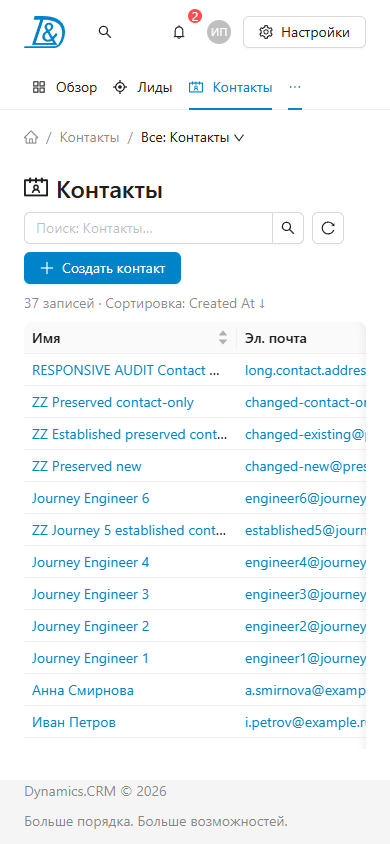
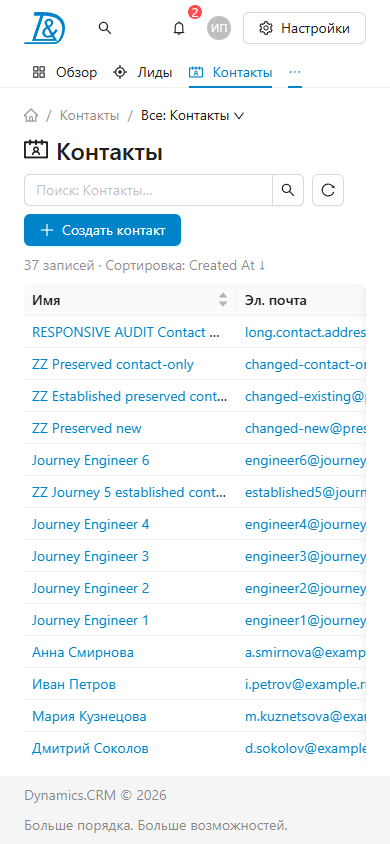
56px header, 32px menu lines, zero card body padding, centered modal, glyph-fitted Italic Regular CRM

diff --git a/antd-contacts/src/useGlyphFit.ts b/antd-contacts/src/useGlyphFit.ts
@@ -1,0 +1,50 @@
+import { useMemo } from 'react';
+import type { CSSProperties } from 'react';
+
+interface FontSpec {
+  family: string;
+  style?: 'normal' | 'italic';
+  weight?: number | string;
+}
+
+/**
+ * Sizes upper-case text so that its *visible capital letters* (not the line box) are exactly `heightPx`
+ * tall: the cap height (flat tops of H, R, M…) aligns with the top of a `heightPx`-high block and the
+ * baseline with its bottom. Round letters (C, O, S) overshoot by a fraction of a pixel, as in any typeface.
+ *
+ * Measures the real font with canvas `measureText`, so it adapts to whatever font the OS resolves
+ * (Segoe UI, SF Pro, Roboto…). Returns styles for a block-level element.
+ */
+export function useGlyphFit(heightPx: number, font: FontSpec): CSSProperties {
+  const { family, style = 'normal', weight = 400 } = font;
+
+  return useMemo(() => {
+    const fallback: CSSProperties = { fontSize: heightPx, lineHeight: `${heightPx}px` };
+    const ctx = typeof document !== 'undefined' ? document.createElement('canvas').getContext('2d') : null;
+    if (!ctx) return fallback;
+
+    const base = 100;
+    ctx.font = `${style} ${weight} ${base}px ${family}`;
+    const m = ctx.measureText('H'); // flat glyph: top = cap height, bottom = baseline
+    const capHeight = m.actualBoundingBoxAscent;
+    if (!capHeight || !m.fontBoundingBoxAscent) return fallback;
+
+    const k = heightPx / capHeight;
+    // Font metrics used for the line box; browsers round them to whole pixels during line layout.
+    const fontAscent = Math.round(m.fontBoundingBoxAscent * k);
+    const fontDescent = Math.round(m.fontBoundingBoxDescent * k);
+
+    // In a line box of height L the baseline sits at (L − fontAscent − fontDescent)/2 + fontAscent.
+    // Put the baseline at heightPx (bottom of the block) so cap tops land at 0 (top of the block).
+    const lineHeight = 2 * heightPx - fontAscent + fontDescent;
+
+    return {
+      display: 'block',
+      height: heightPx,
+      fontSize: base * k,
+      lineHeight: `${lineHeight}px`,
+      fontStyle: style,
+      fontWeight: weight,
+    };
+  }, [heightPx, family, style, weight]);
+}

diff --git a/antd-contacts/src/App.tsx b/antd-contacts/src/App.tsx
@@ -34,10 +34,12 @@ import {
 } from '@ant-design/icons';
 import logo from './assets/logo.svg';
 import ContactsPage from './pages/ContactsPage';
+import { useGlyphFit } from './useGlyphFit';
 
 const { Header, Content, Footer } = Layout;
 const { Text } = Typography;
 
+const LOGO_HEIGHT = 32;
 const CURRENT_USER = 'Иван Петров';
 const CURRENT_USER_INITIALS = 'ИП';
 
@@ -62,6 +64,7 @@ export default function App() {
   const { token } = theme.useToken();
   const screens = Grid.useBreakpoint();
   const { message } = AntApp.useApp();
+  const productNameFit = useGlyphFit(LOGO_HEIGHT, { family: token.fontFamily, style: 'italic', weight: 400 });
 
   const notInDemo = (what: string) => message.info(`«${what}» не входит в демо-страницу`);
 
@@ -81,17 +84,13 @@ export default function App() {
           <Image
             src={logo}
             alt="Dynamics Scientific"
-            height={32}
+            height={LOGO_HEIGHT}
             preview={false}
             styles={{ root: { display: 'block' }, image: { display: 'block' } }}
           />
           {screens.md && (
-            // Product name: italic, primary colour, same 32px height as the logo.
-            <Text
-              strong
-              italic
-              style={{ color: token.colorPrimary, fontSize: 32, lineHeight: '32px', display: 'block' }}
-            >
+            // Italic Regular; letters (ink) exactly as tall as the logo and aligned to its top and bottom.
+            <Text italic style={{ ...productNameFit, color: token.colorPrimary }}>
               CRM
             </Text>
           )}

diff --git a/antd-contacts/src/pages/ContactsPage.tsx b/antd-contacts/src/pages/ContactsPage.tsx
@@ -179,11 +179,11 @@ export default function ContactsPage() {
         ]}
       />
 
-      {/* Card and its body stretch to the full remaining height; no border, no horizontal body padding. */}
+      {/* Card and its body stretch to the full remaining height; no border or shadow (body padding is a token). */}
       <Card
         variant="borderless"
         style={{ flex: 1, minHeight: 0, display: 'flex', flexDirection: 'column', boxShadow: 'none' }}
-        styles={{ body: { flex: 1, minHeight: 0, display: 'flex', flexDirection: 'column', paddingInline: 0 } }}
+        styles={{ body: { flex: 1, minHeight: 0, display: 'flex', flexDirection: 'column' } }}
       >
         <Flex vertical gap="medium" style={{ flex: 1, minHeight: 0 }}>
           <Flex justify="space-between" align="center" wrap gap="medium">
@@ -251,6 +251,7 @@ export default function ContactsPage() {
 
       <Modal
         title="Новый контакт"
+        centered
         open={creating}
         okText="Создать"
         okButtonProps={{ htmlType: 'submit' }}

diff --git a/antd-contacts/src/theme.ts b/antd-contacts/src/theme.ts
@@ -12,14 +12,16 @@ export const appTheme: ThemeConfig = {
   },
   components: {
     Card: {
-      bodyPadding: 16, // --ant-card-body-padding
+      bodyPadding: 0, // --ant-card-body-padding
     },
     Layout: {
       bodyBg: '#ffffff', // --ant-layout-body-bg
-      footerPadding: '0px 24px 12px', // --ant-layout-footer-padding
+      headerHeight: 56, // --ant-layout-header-height
+      footerPadding: '8px 24px 8px', // --ant-layout-footer-padding
     },
     Menu: {
       itemPaddingInline: 8, // --ant-menu-item-padding-inline
+      horizontalLineHeight: '32px', // --ant-menu-horizontal-line-height
     },
     Table: {
       // 4.5px + 22px line height + 4.5px + 1px row border = 32px row height

diff --git a/CLAUDE.md b/CLAUDE.md
@@ -16,15 +16,18 @@ Current trial: **Ant Design**. The page is the Dynamics.CRM "Контакты" l
   custom CSS look.
 - All visual customisation goes **only through antd design tokens** in `antd-contacts/src/theme.ts`
   (`ConfigProvider theme={appTheme}`). Don't put colours or spacing overrides in components. Current theme:
-  `colorPrimary`/`colorLink` `#0084C9`, `padding` 8 (`--ant-padding`), Card `bodyPadding` 16, Layout
-  `bodyBg` `#ffffff` and `footerPadding` `0px 24px 12px`, Menu `itemPaddingInline` 8, Table `cellPaddingBlock`
-  4.5px (32px rows). Exceptions with no token, set inline: Content padding `16px 24px` (`App.tsx`), and on the
-  Contacts Card `boxShadow: 'none'` and body `paddingInline: 0` (`ContactsPage.tsx`).
-- Contacts Card: `variant="borderless"`, no shadow, no horizontal body padding (the table is flush with the
-  content edges).
-- Header: logo `src/assets/logo.svg` (the "D&" mark, 41×32, copied from the root `logo.svg`) and the product name
-  "CRM" (italic, `token.colorPrimary`, 32px font/line height, hidden below `md`). They're direct children of one
-  `Flex align="center" gap={8}`, with no Space wrappers and no Divider.
+  `colorPrimary`/`colorLink` `#0084C9`, `padding` 8 (`--ant-padding`), Card `bodyPadding` 0, Layout
+  `bodyBg` `#ffffff`, `headerHeight` 56 and `footerPadding` `8px 24px 8px`, Menu `itemPaddingInline` 8 and
+  `horizontalLineHeight` `32px`, Table `cellPaddingBlock` 4.5px (32px rows). Exceptions with no token, set
+  inline: Content padding `16px 24px` (`App.tsx`) and Contacts Card `boxShadow: 'none'` (`ContactsPage.tsx`).
+- Contacts Card: `variant="borderless"`, no shadow, body padding 0 (the table is flush with the content edges).
+- The create-contact Modal is `centered` (vertically and horizontally).
+- Header (56px): logo `src/assets/logo.svg` (the "D&" mark, 41×32, copied from the root `logo.svg`) and the
+  product name "CRM" (Italic Regular, `token.colorPrimary`, hidden below `md`). They're direct children of one
+  `Flex align="center" gap={8}`, with no Space wrappers and no Divider. The "CRM" size comes from
+  `useGlyphFit(32, font)`, which measures the real font so the **cap height** (flat tops of R/M) equals the logo
+  height and the baseline sits on the logo's bottom edge. The round "C" overshoots by about 0.5px, as round
+  glyphs normally do. Verified on screen pixels at 1× and 2×.
   Actions: notifications, user dropdown for "Иван Петров" (avatar "ИП", which holds "Выйти"), and an outlined
   (default) icon+text "Настройки" button. There's no separate logout button. The section menu has 8 items, with no
   "Настройки" item, because settings live in the header button.
@@ -50,7 +53,8 @@ design/
     ├── package.json     # antd 6.7.1, @ant-design/icons 6.3.4, React 19, Vite 8, TS 7
     └── src/
         ├── main.tsx     # ConfigProvider(locale=ruRU, theme=appTheme) + antd App + reset.css
-        ├── theme.ts     # appTheme: the single place for tokens (colour, paddings, Table row height)
+        ├── theme.ts     # appTheme: the single place for tokens (colour, paddings, heights, Table row height)
+        ├── useGlyphFit.ts  # hook: font size/line height so capital letters are exactly N px tall (canvas metrics)
         ├── App.tsx      # shell: Layout(100dvh) > Header (logo + "CRM", global Input.Search, Badge bell, user
         │                #   Dropdown, "Настройки" button) + horizontal Menu (8 sections) + Content (flex) + Footer
         ├── assets/logo.svg
@@ -107,6 +111,12 @@ npm run build   # tsc -b + vite build (a >500 kB chunk warning from antd is expe
   divs between them); `--ant-layout-body-bg: #ffffff`; Contacts Card with no border (`borderless`, shadow
   removed too) and no horizontal body padding. Verified in Chrome: gap 8px, `--ant-layout-body-bg` `#ffffff`,
   card border 0, shadow none, body padding `16px 0px`, table flush with the card. Playwright 29/29, 0 warnings.
+- 2026-11-17: Requested: `--ant-card-body-padding: 0`, `--ant-layout-footer-padding: 8px 24px 8px`,
+  `--ant-menu-horizontal-line-height: 32px`, header 56px, centered create Modal, and "CRM" in Italic Regular with
+  its letter height (cap height, measured on glyphs) equal to the logo height. Verified: all CSS variables, header
+  56px, menu items 32px; modal gaps equal on all sides at 1440×900, 1280×720 and 390×844; pixel rows of R/M =
+  logo rows (12→44px). The resize check now measures the table's `max-height` (scroll limit), not its content
+  height. Playwright 29/29, 0 warnings.
 
 ## Gotchas found
 - `Breadcrumb` item `menu` is not typed as `MenuProps`. Derive the type:
@@ -125,4 +135,8 @@ npm run build   # tsc -b + vite build (a >500 kB chunk warning from antd is expe
 - `Space` wraps every child in `div.ant-space-item`, while `Flex` doesn't. Use `Flex` when the DOM should stay flat.
 - `Card variant="borderless"` replaces the border with a `boxShadowTertiary` shadow, which still reads as an
   outline on a white background. Add `boxShadow: 'none'` for a truly borderless block.
+- Font size ≠ letter height: capital letters are only about 70% of the font size. To match letters to an icon,
+  measure `measureText('H').actualBoundingBoxAscent` and solve for the font size and the line height
+  (baseline = (L − ascent − descent)/2 + ascent, with ascent/descent rounded like browser line layout).
+  Fit the cap height, not the ink box of the whole word: round letters overshoot and would shrink the flat ones.
 - `Typography.Text italic` puts the text in an inner `<i>`, so check `fontStyle` on that element, not the span.

diff --git a/antd-contacts/ANTD_NOTES.md b/antd-contacts/ANTD_NOTES.md
@@ -9,9 +9,9 @@ All visual customisation is done with design tokens in `src/theme.ts`.
 ```ts
 token: { colorPrimary: '#0084C9', colorLink: '#0084C9', padding: 8 },   // --ant-padding
 components: {
-  Card:   { bodyPadding: 16 },                 // --ant-card-body-padding
-  Layout: { bodyBg: '#ffffff', footerPadding: '0px 24px 12px' },  // --ant-layout-body-bg, --ant-layout-footer-padding
-  Menu:   { itemPaddingInline: 8 },            // --ant-menu-item-padding-inline
+  Card:   { bodyPadding: 0 },                  // --ant-card-body-padding
+  Layout: { bodyBg: '#ffffff', headerHeight: 56, footerPadding: '8px 24px 8px' },  // --ant-layout-*
+  Menu:   { itemPaddingInline: 8, horizontalLineHeight: '32px' },  // --ant-menu-*
   Table:  { cellPaddingBlock: 4.5 },           // 4.5 + 22 + 4.5 + 1px border = 32px rows
 }
 ```
@@ -54,14 +54,14 @@ run that asserts **0 console warnings**. This trial passes it.
 |---|---|
 | App shell | `Layout` > `Header` / `Content` / `Footer` |
 | Light header | `Header style={{ background: token.colorBgContainer }}` (antd docs pattern, via `theme.useToken()`) |
-| Logo + product name | `Flex align="center" gap={8}` > `Image preview={false}` (block via `styles.root`/`styles.image`) + `Typography.Text strong italic` coloured with `token.colorPrimary` |
+| Logo + product name | `Flex align="center" gap={8}` > `Image preview={false}` (block via `styles.root`/`styles.image`) + `Typography.Text italic` (Regular) coloured with `token.colorPrimary`, sized by `useGlyphFit` so cap height = logo height |
 | Global search | `Input.Search` (≥ md), icon `Button` (< md) |
 | Notifications | `Badge count` + `Button type="text"` + `Tooltip` |
 | User menu | `Dropdown menu={{ items }}` + `Button icon={<Avatar/>}` + `Typography.Text ellipsis` |
 | Settings | `Button icon={<SettingOutlined/>}` with text (default variant = visible border) |
 | Section navigation | `Menu mode="horizontal" items` (8 sections; overflows into "…" automatically) |
 | View switcher ("Все: Контакты ›") | `Breadcrumb` item with `menu` |
-| Page container | `Card variant="borderless"` (full height via `style` + `styles.body`; `boxShadow: 'none'`, body `paddingInline: 0`) |
+| Page container | `Card variant="borderless"` (full height via `style` + `styles.body`; `boxShadow: 'none'`; body padding 0 via the `bodyPadding` token) |
 | Page title | icon + `Typography.Title level={3}` |
 | Toolbar | `Input.Search`, `Button icon={<ReloadOutlined/>}`, `Button type="primary" icon={<PlusOutlined/>}` |
 | Count / sort line | `Typography.Text type="secondary"` |
@@ -69,7 +69,7 @@ run that asserts **0 console warnings**. This trial passes it.
 | Row link / open action | `Typography.Link` (text and icon-only, so rows stay one line high) |
 | Total | the count line above the table (pagination removed by request) |
 | Record details | `Drawer` + `Descriptions items` |
-| Create form | `Modal` + `Form` (via `modalRender`), `Form.Item rules` |
+| Create form | `Modal centered` + `Form` (via `modalRender`), `Form.Item rules` |
 | Feedback | `App.useApp().message` |
 | Responsiveness | `Grid.useBreakpoint()` |
 | Localisation | `ConfigProvider locale={ruRU}` (`antd/locale/ru_RU`) |
